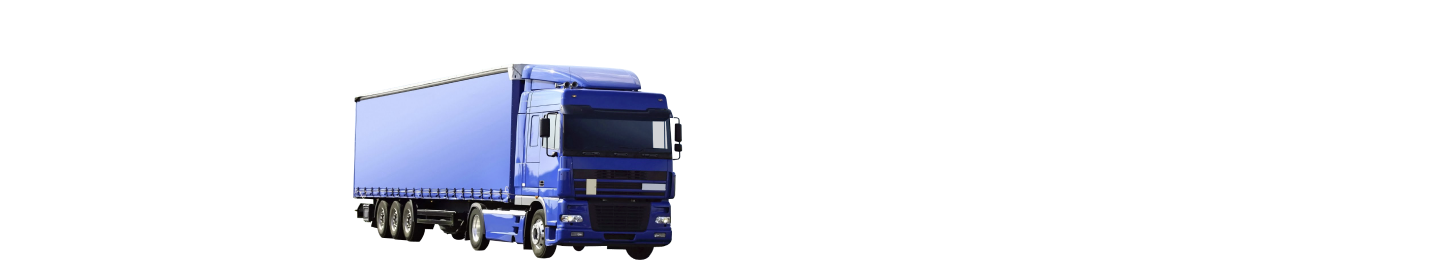
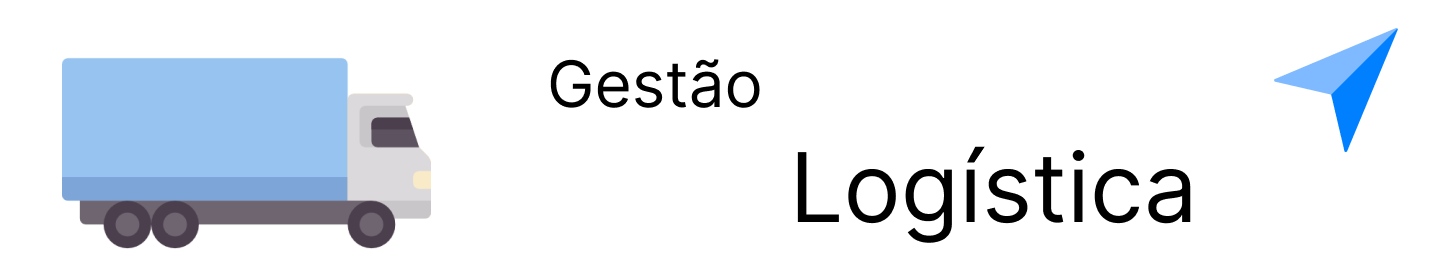
update

diff --git a/dash.py b/dash.py
@@ -307,7 +307,7 @@ with col10:
     location=[-14.235, -51.925],
     zoom_start=4,
     control_scale=False,
-    zoom_control=False,
+    zoom_control=True,
     scrollWheelZoom=False,
     dragging=True,
 )
@@ -338,7 +338,7 @@ with col10:
                 fill=True,
                 fill_color=cor_faturamento(valor),
                 fill_opacity=0.7,
-                popup=f"<b>{uf}</b><br>Faturamento: R$ {valor:,.2f}".replace(',', 'X').replace('.', ',').replace('X', '.'),
+                # popup=f"{valor:,.2f}".replace(',', 'X').replace('.', ',').replace('X', '.'),
                 tooltip=f"{uf}: R$ {valor:,.2f}".replace(',', 'X').replace('.', ',').replace('X', '.')
             ).add_to(m)
             
